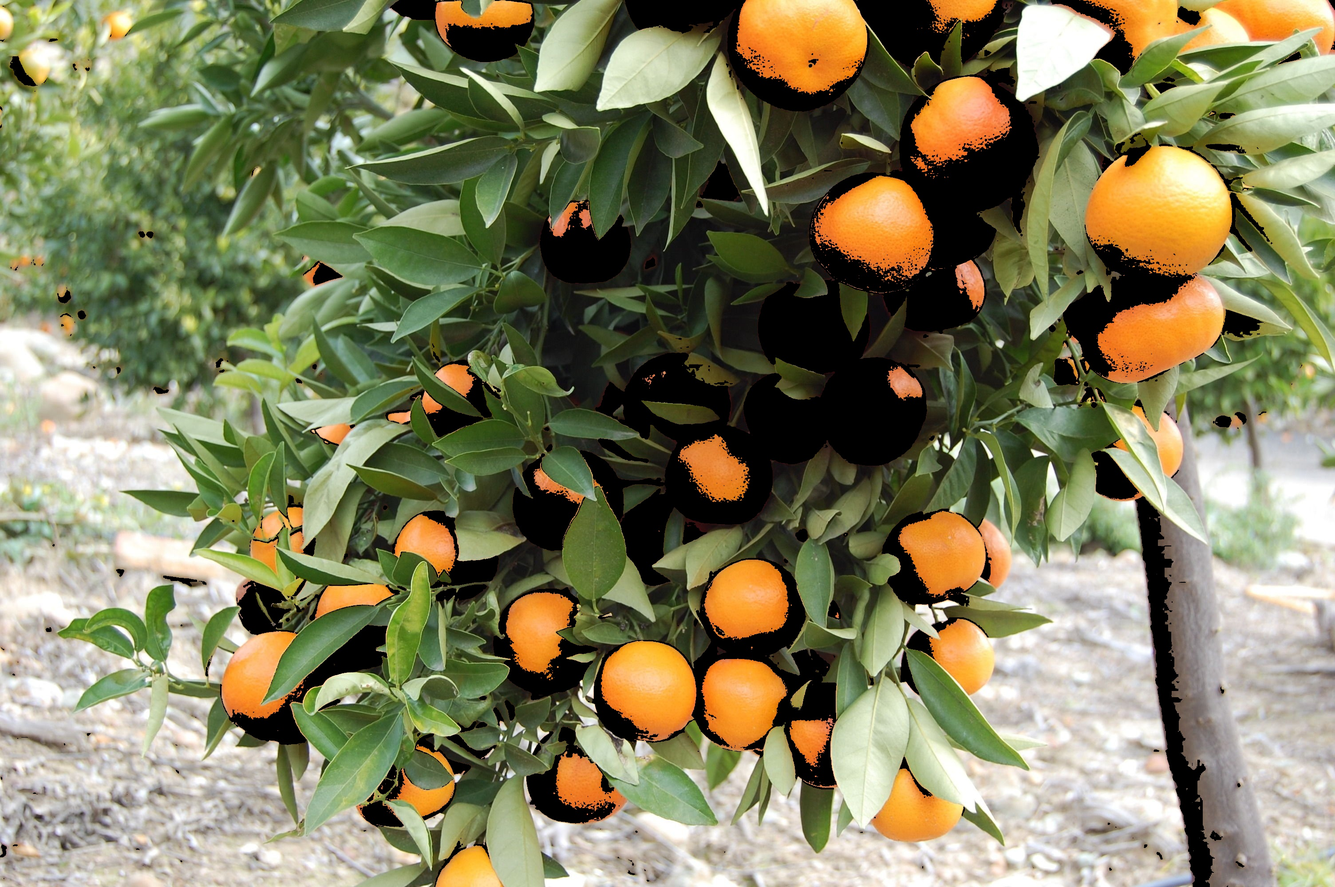
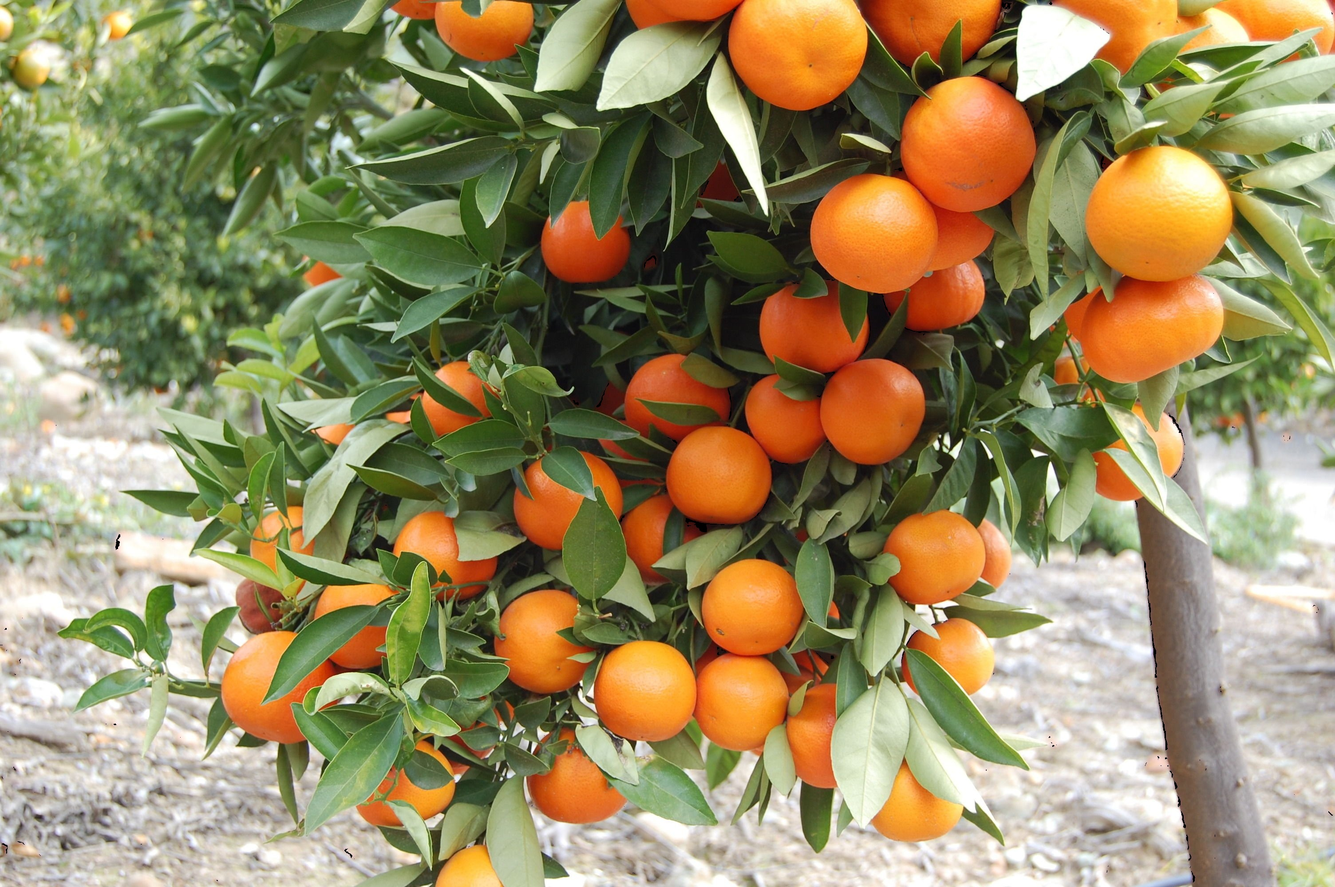
adaptive filter

diff --git a/a2.py b/a2.py
@@ -44,7 +44,9 @@ def varianceFilter(fname):
     imgGray = cv2.cvtColor(img, cv2.COLOR_BGR2GRAY)
 
 
-    test, mean = cv2.threshold(imgGray, 89, 255, cv2.THRESH_BINARY | cv2.THRESH_OTSU)
+    # test, mean = cv2.threshold(imgGray, 89, 255, cv2.THRESH_BINARY | cv2.THRESH_OTSU)
+
+    mean = cv2.adaptiveThreshold(imgGray, 255, cv2.ADAPTIVE_THRESH_MEAN_C, cv2.THRESH_BINARY, 3, -5)
 
 
     edges = cv2.Canny(imgGray, 100, 200)
@@ -63,17 +65,23 @@ def varianceFilter(fname):
     cr[cr == 1] = 255
     cr[cr == 254] = 0
 
-    cb[(cb > 120) | (cb < 30)] = 0
-    cb[(cb >= 30) & (cb <= 120)] = 255
+    cb[(cb > 120) | (cb < 30)] = 255
+    cb[(cb >= 30) & (cb <= 120)] = 0
 
 
-    mask = np.full((img.shape[0], img.shape[1]), 255)
+    # mask = np.full((img.shape[0], img.shape[1]), 255)
 
 
-    mask[(ndi == 0) & (mean == 0) & (cr == 0) & (cb == 255)] = 0
+    # mask[(ndi == 0) & (mean == 0) & (cr == 0) & (cb == 255)] = 0
     b[(ndi == 0) & (mean == 0) & (cr == 0) & (cb == 255)] = 0
     g[(ndi == 0) & (mean == 0) & (cr == 0) & (cb == 255)] = 0
     r[(ndi == 0) & (mean == 0) & (cr == 0) & (cb == 255)] = 0
+
+    print(ndi, mean)
+
+    mask = ndi + mean + cr + cb
+
+
 
    # gray_threshold
     # for k in range(0, img.shape[0]):
@@ -108,12 +116,12 @@ def varianceFilter(fname):
     #if not os.path.exists('intermediaries'):
     #    os.makedirs('intermediaries')
 
-    #cv2.imwrite("intermediaries/" + os.path.splitext(fname)[0] + "_NDI.jpg", ndi)
-    #cv2.imwrite("intermediaries/" + os.path.splitext(fname)[0] + "_mean.jpg", mean)
-    #cv2.imwrite("intermediaries/" + os.path.splitext(fname)[0] + "_cr.jpg", cr)
-    #cv2.imwrite("intermediaries/" + os.path.splitext(fname)[0] + "_cb.jpg", cb)
-    #cv2.imwrite("intermediaries/" + os.path.splitext(fname)[0] + "_mask.jpg", mask)
-    #cv2.imwrite("intermediaries/" + os.path.splitext(fname)[0] + "_final.jpg", final)
+    cv2.imwrite("intermediaries/" + os.path.splitext(fname)[0] + "_NDI.jpg", ndi)
+    cv2.imwrite("intermediaries/" + os.path.splitext(fname)[0] + "_mean.jpg", mean)
+    cv2.imwrite("intermediaries/" + os.path.splitext(fname)[0] + "_cr.jpg", cr)
+    cv2.imwrite("intermediaries/" + os.path.splitext(fname)[0] + "_cb.jpg", cb)
+    cv2.imwrite("intermediaries/" + os.path.splitext(fname)[0] + "_mask.jpg", mask)
+    cv2.imwrite("intermediaries/" + os.path.splitext(fname)[0] + "_final.jpg", final)
 
 
 
